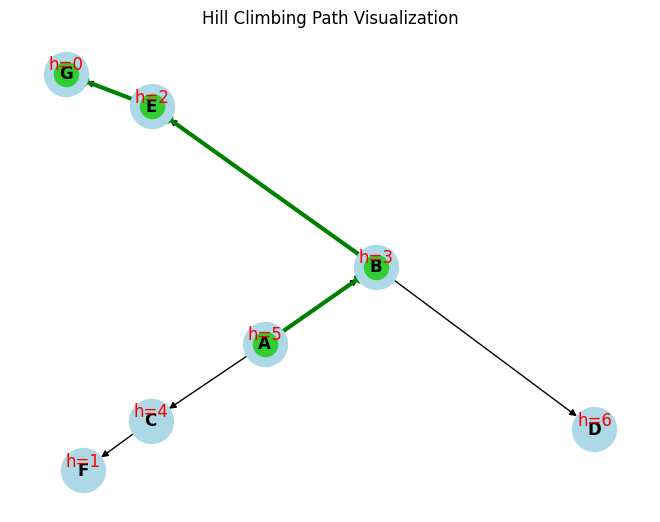
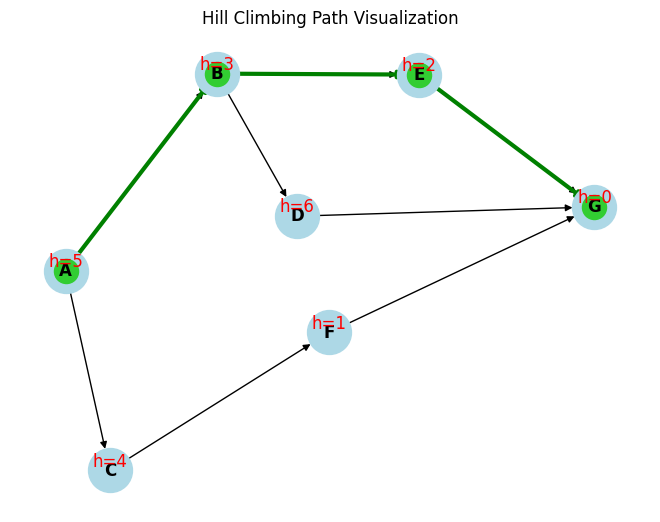
updated exp11

diff --git a/Exp11/Exp11.py b/Exp11/Exp11.py
@@ -2,34 +2,82 @@ import pandas as pd
 import networkx as nx
 import matplotlib.pyplot as plt
 
+# Load data
 edges = pd.read_csv("graph.csv")
 heuristic_df = pd.read_csv("heuristic.csv")
-graph = edges.groupby("from")["to"].apply(list).to_dict()
+
+# Ensure cost column is numeric
+if "cost" in edges.columns:
+    edges["cost"] = pd.to_numeric(edges["cost"], errors="coerce").fillna(1)
+    # ✅ Build weighted adjacency dictionary properly
+    graph = edges.groupby("from").apply(
+        lambda g: {row["to"]: row["cost"] for _, row in g.iterrows()}
+    ).to_dict()
+else:
+    # Default cost = 1 for unweighted graphs
+    graph = edges.groupby("from")["to"].apply(list).to_dict()
+    graph = {k: {v: 1 for v in vs} for k, vs in graph.items()}
+
+    
 heuristic = dict(zip(heuristic_df["node"], heuristic_df["heuristic"]))
+
+# Ensure all nodes appear in graph
 for node in heuristic:
-    graph.setdefault(node, [])
+    graph.setdefault(node, {})
+
+# Start and goal
 start, goal = "A", "G"
 path, current = [start], start
+path_cost = 0
+
+# Hill climbing loop
 while current != goal:
     neighbors = graph[current]
     if not neighbors:
-        print("Dead end at:", current); break
-    nxt = min(neighbors, key=lambda n: heuristic[n])
+        print("Dead end at:", current)
+        break
+
+    # ✅ Choose neighbor with lowest heuristic, break ties by cost
+    nxt = min(neighbors, key=lambda n: (heuristic[n], neighbors[n]))
+
+    # Stop if no improvement
     if heuristic[nxt] >= heuristic[current]:
-        print("Stuck at local minimum at:", current); break
+        print("Stuck at local minimum at:", current)
+        break
+
+    # ✅ Add edge cost to total
+    path_cost += neighbors[nxt]
     current = nxt
     path.append(current)
 
-    G = nx.from_pandas_edgelist(edges, "from", "to", create_using=nx.DiGraph())
-pos = nx.spring_layout(G)
+# Build the graph
+G = nx.from_pandas_edgelist(
+    edges, "from", "to", edge_attr=True, create_using=nx.DiGraph()
+)
 
+# Define positions for nodes
+pos = nx.spring_layout(G, seed=42)
+
+# Draw base graph
 nx.draw(G, pos, with_labels=True, node_color="lightblue", node_size=1000, font_weight="bold")
+nx.draw_networkx_edge_labels(
+    G,
+    pos,
+    edge_labels={(u, v): f"{d.get('cost', 1)}" for u, v, d in G.edges(data=True)},
+)
+
+
+# Draw heuristic values
 nx.draw_networkx_labels(G, pos, labels={n: f"h={heuristic[n]}" for n in G}, font_color="red", verticalalignment="bottom")
+
+# Highlight path
 nx.draw_networkx_edges(G, pos, edgelist=list(zip(path, path[1:])), edge_color="green", width=3)
 nx.draw_networkx_nodes(G, pos, nodelist=path, node_color="limegreen")
 
+# Results
 print("Goal reached!" if path[-1] == goal else "Failed to reach the goal.")
 print("Path taken:", path)
+print("Total path cost:", path_cost)
 
-plt.title("Hill Climbing Path Visualization")
+plt.title("Hill Climbing Path Visualization (with Path Cost)")
 plt.show()
